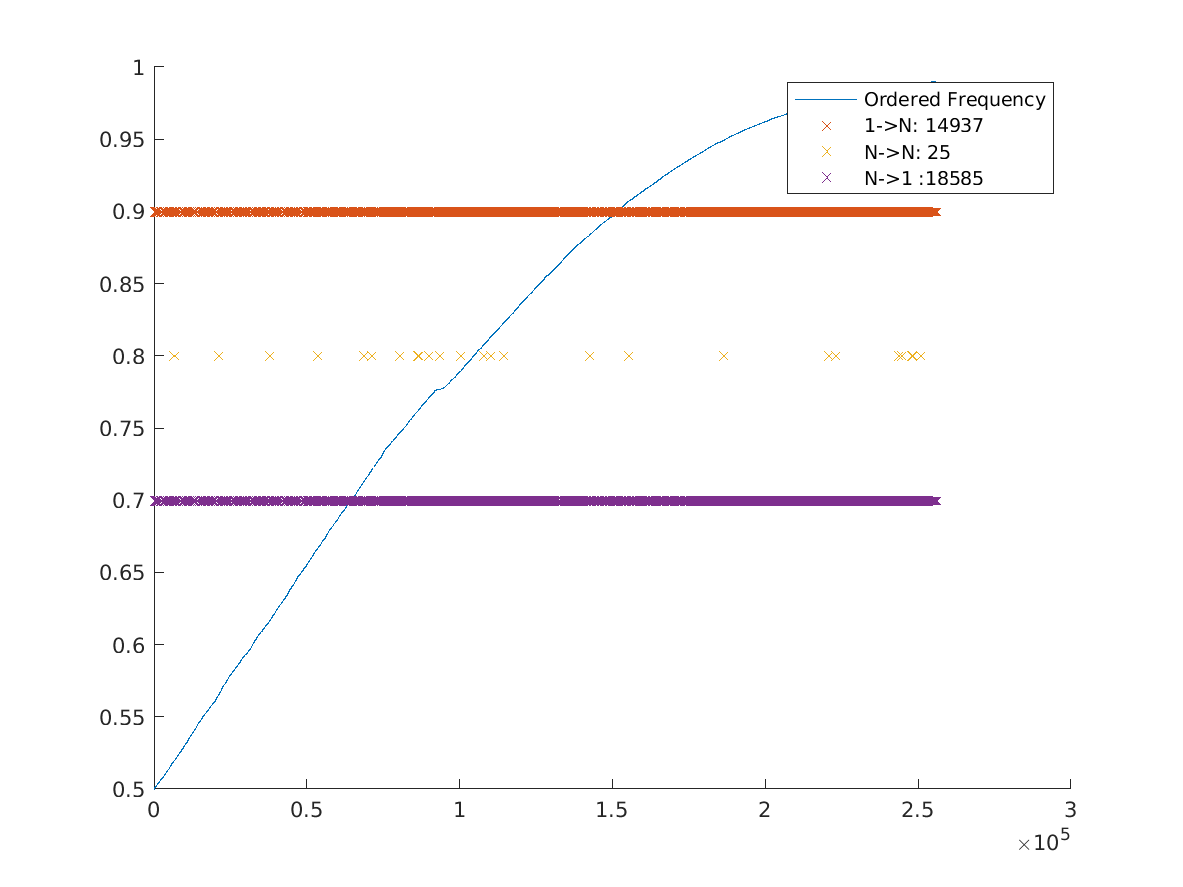
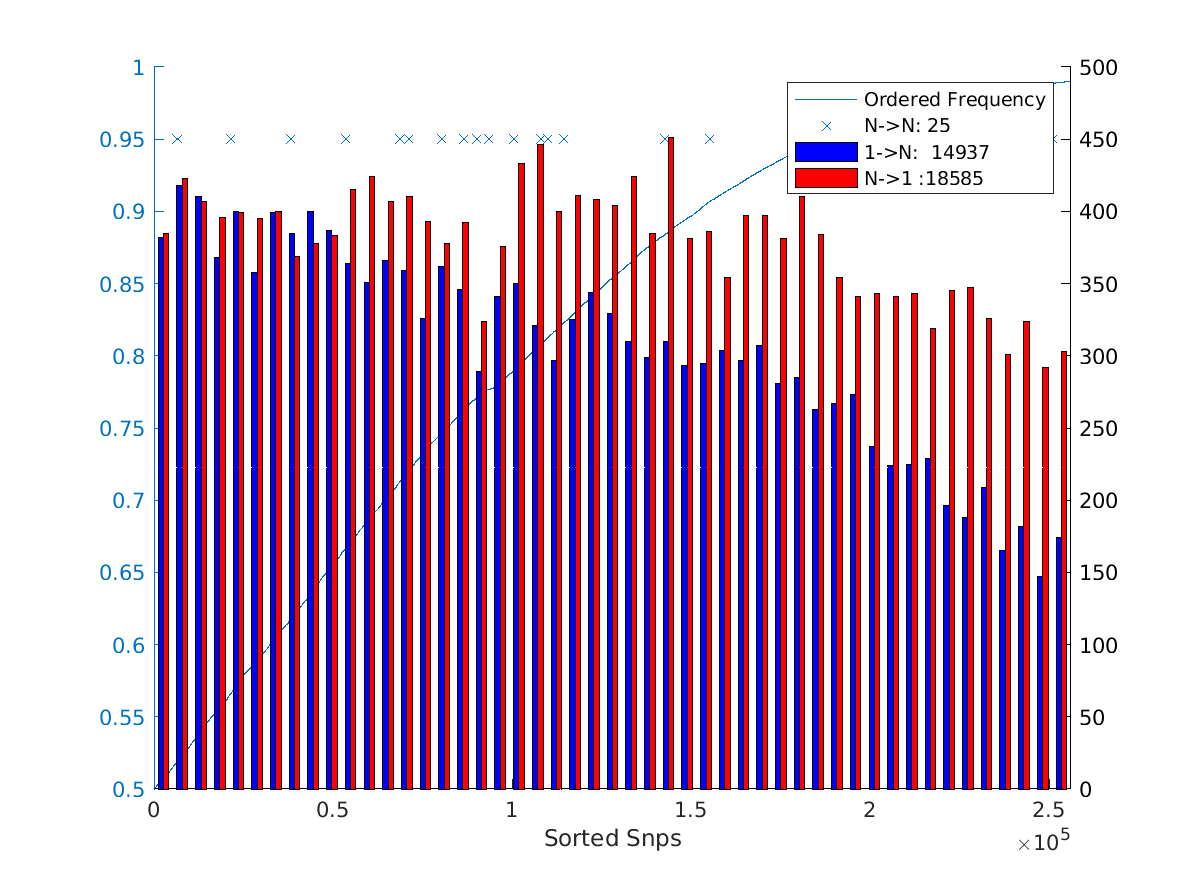
Updated Multiple Alleles Graph
Former-commit-id: c5ae74f9c3f6ed4701744bf5f3de47945d1348ca

diff --git a/matlab/genomeDemo.m b/matlab/genomeDemo.m
@@ -35,35 +35,54 @@ geno = geno(genoIndex, :);
 [sortedAf, sortedAfArg] = sort(af);
 sortedSnps = snps(sortedAfArg, :);
 %% Decide whether I should remove multi-character allele correspondences (Incorporating Indels)
+close all
 fig = figure("Name", "Occurences of Multi-Character Alleles");
 hold on
-plot(sortedAf);
+yyaxis left
+lHandle = plot(sortedAf);
+set(lHandle, {'DisplayName'}, {'Ordered Frequency'});
+
 oneToMany = strlength(sortedSnps.(4))>1 & strlength(sortedSnps.(5)) == 1;
 manyToMany = strlength(sortedSnps.(4))>1 & strlength(sortedSnps.(5)) > 1;
 manyToOne = strlength(sortedSnps.(4))==1 & strlength(sortedSnps.(5)) > 1;
-scatter(find(manyToOne), 0.9 * ones(1, sum(manyToOne)), 'x');
-scatter(find(manyToMany), 0.8 * ones(1, sum(manyToMany)), 'x');
-scatter(find(oneToMany), 0.7 * ones(1, sum(oneToMany)), 'x');
-legend("Ordered Frequency", ['1->N: ' num2str(sum(oneToMany))], ...
-    ['N->N: ', num2str(sum(manyToMany))]  ,['N->1 :', num2str(sum(manyToOne))]);
-hold off
+edges = linspace(0, size(manyToOne ,1), 50);
+oTMH = histcounts(find(oneToMany),edges);
+mTOH = histcounts(find(manyToOne),edges);
 
+
+sHandle = scatter(find(manyToMany), 0.95 * ones(1, sum(manyToMany))', 'x');
+sHandle.DisplayName = ['N->N: ', num2str(sum(manyToMany))];
+
+yyaxis right
+bHandle = bar( 0.5*(edges(2:end) + edges(1:end-1)), [oTMH', mTOH'], 1);
+bHandle(1).FaceColor = 'blue';
+bHandle(1).DisplayName = ['1->N:  '  num2str(sum(oneToMany))];
+bHandle(1).EdgeColor = 'k';
+bHandle(2).FaceColor = 'red';ax = gca;
+bHandle(2).DisplayName = ['N->1 :', num2str(sum(manyToOne))];
+bHandle(2).EdgeColor = 'k';
+xlabel("Sorted Snps")
+ax = gca;
+ax.YAxis(2).Color = 'k';
+
+legend;
+hold off
 savefig(fig, [RESULTS_DIR 'multi_characters_alleles.fig']);
 saveas(fig, [RESULTS_DIR 'multi_characters_alleles.png']);
 
 
 %% Remove multiallelic for now.
 indelFilter = strlength(snps.(4))==1 & strlength(snps.(5))==1;
-geno = geno(:, indelFilter);
-snps = snps(indelFilter, :);
+genoPruned = geno(:, indelFilter);
+snpsPruned = snps(indelFilter, :);
 
 
 %% Identify the genetic indices for genes with more than one allele
-[rsids , ~, ic] = unique(snps.('RSID'));
+[rsids , ~, ic] = unique(snpsPruned.('RSID'));
 alleleCounts = accumarray(ic,1);
 %% Some checks
 %regarding the fact that positions need to be sorted
-assert(all(sort(snps.POS) == snps.POS));
+assert(all(sort(snpsPruned.POS) == snpsPruned.POS));
 % and that all phenotype ids  correspond to genotype ones
 assert(all((1:length(phenoId)) == phenoIndex'));
 %% Partition SNPs
@@ -77,22 +96,22 @@ assert(all((1:length(phenoId)) == phenoIndex'));
 % phenoPart = pheno.clusterPCAPhenoFeatures{clusterInd};
 phenoWhole = horzcat(pheno.clusterPCAPhenoFeatures{:});
 
-[stats, intStats, intervals] = runCCA(phenoWhole, geno, snps);
+[stats, intStats, intervals] = runCCA(phenoWhole, genoPruned, snpsPruned);
 pThres = 0.05/ size(intStats.ChiSqSignificance, 1);
 
 %%
 significantInts = intervals(intStats.chiSqSignificance<pThres, :);
 starts = significantInts(:,1);
 ends = significantInts(:,2);
-stSnps = snps(starts,:);
-stSnps.Properties.VariableNames = strcat(snps.Properties.VariableNames', '_ST')';
-enSnps = snps(ends,:);
-enSnps.Properties.VariableNames = strcat(snps.Properties.VariableNames', '_EN')';
+stSnps = snpsPruned(starts,:);
+stSnps.Properties.VariableNames = strcat(snpsPruned.Properties.VariableNames', '_ST')';
+enSnps = snpsPruned(ends,:);
+enSnps.Properties.VariableNames = strcat(snpsPruned.Properties.VariableNames', '_EN')';
 
 sigSnpsCoef = zeros(size(significantInts, 1),1);
 sigSnps = table();
 for c=1:size(significantInts,1)
-    intSnps = snps(starts(c):ends(c),:);
+    intSnps = snpsPruned(starts(c):ends(c),:);
     intCoeffs = stats.coeffs(starts(c):ends(c));
     [~, maxCoefArg] = max(abs(intCoeffs));
     sigSnpsCoef(c) = intCoeffs(maxCoefArg);
